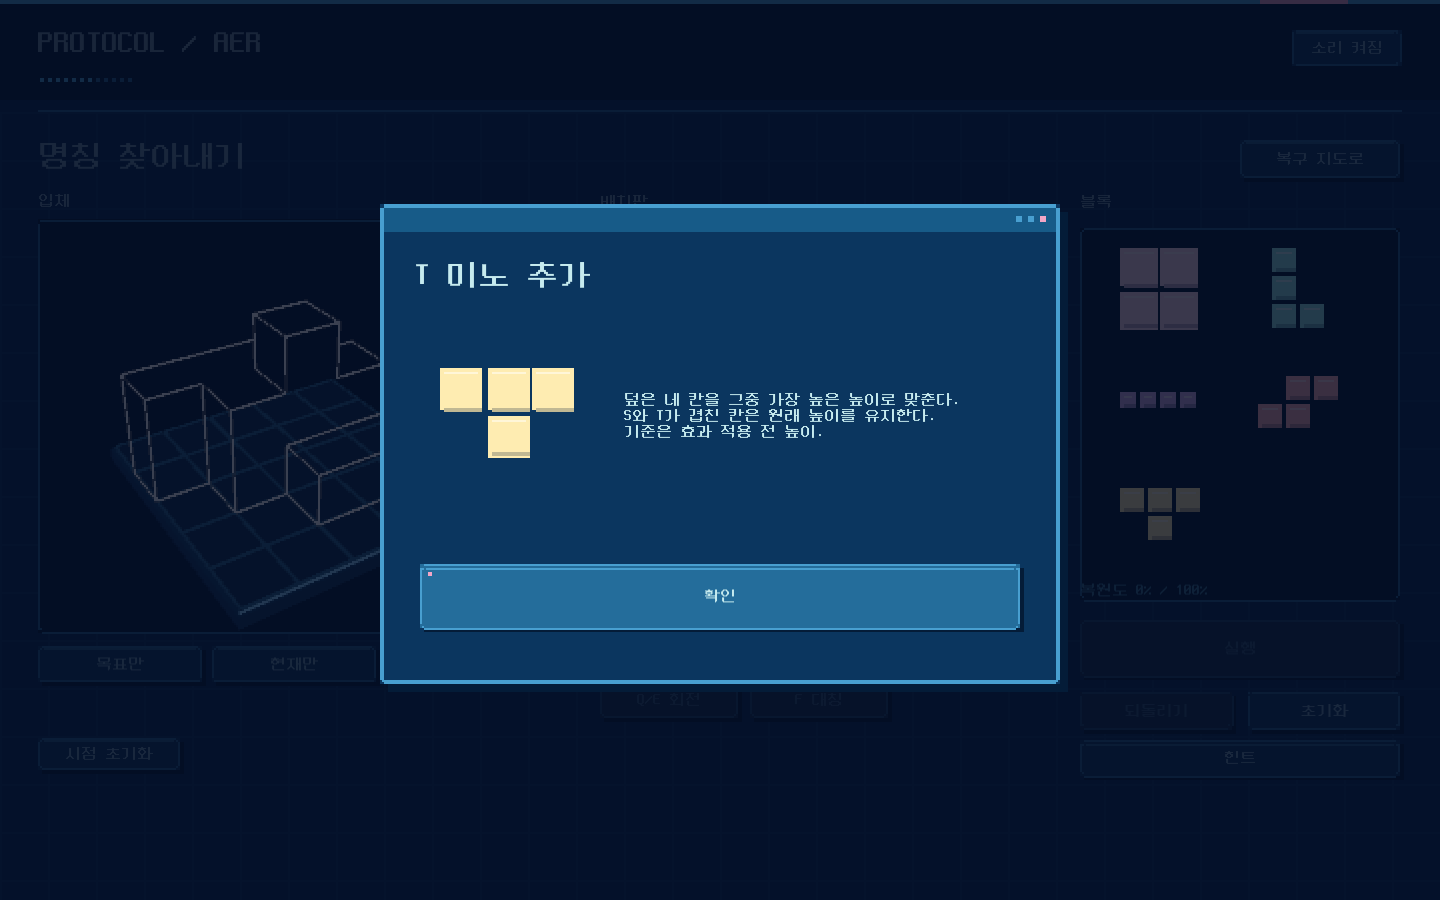
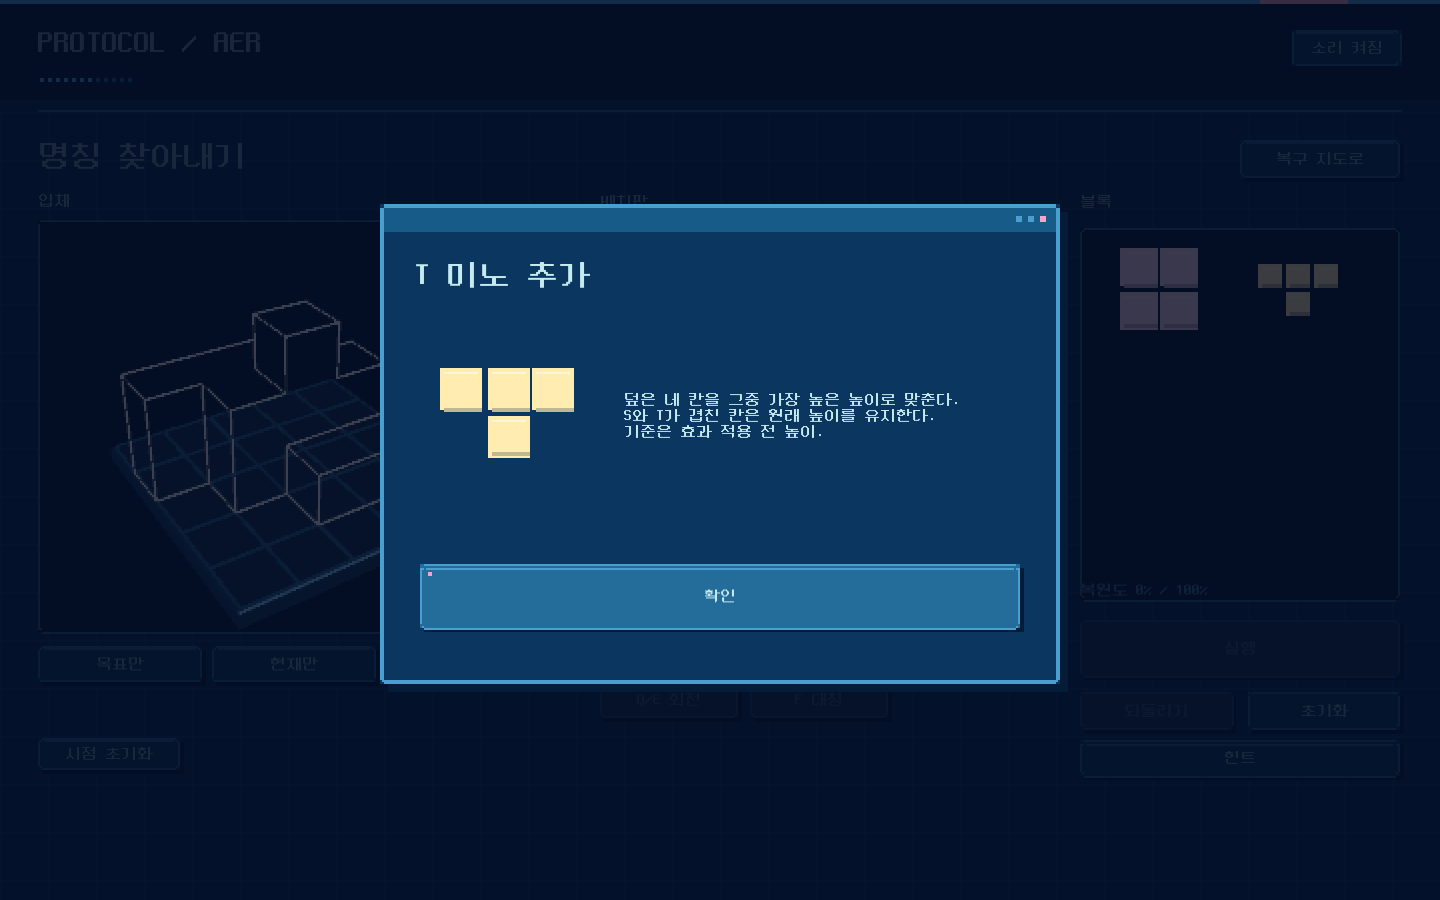
Focus S and T introduction stages on their teaching pieces

diff --git a/Assets/Editor/AerBuilder.cs b/Assets/Editor/AerBuilder.cs
@@ -52,7 +52,7 @@ public static class AerBuilder
         foreach(var stage in AerStages.All)
         {
             var board=new EveningBoard();foreach(var step in stage.Solution)
-            {if(!board.TryPlace(step.Action,step.Cells(),out _))throw new Exception("Invalid solution: "+stage.Name);}
+            {if(!stage.Allows(step.Action)||!board.TryPlace(step.Action,step.Cells(),out _))throw new Exception("Invalid or unavailable solution: "+stage.Name);}
             if(!stage.Complete(board)||stage.Similarity(board)!=100)throw new Exception("Solution evaluation");
             board.Undo();if(stage.Similarity(board)>=100||!stage.Weather&&stage.Complete(board))throw new Exception("Incomplete exact board accepted");
         }
@@ -85,8 +85,19 @@ public static class AerBuilder
         foreach(int action in new[]{0,1,2,3,4})
         {
             int unlock=action==0?11:action==1?10:action==2?8:action==3?5:0;
-            for(int i=0;i<AerStages.All.Length;i++)if(AerStages.All[i].Allows(action)!=(i>=unlock))throw new Exception("Unlock timing changed");
+            for(int i=0;i<AerStages.All.Length;i++)
+            {
+                bool expected=i==10?(action==4||action==3||action==1):i==11?(action==4||action==0):i>=unlock;
+                if(AerStages.All[i].Allows(action)!=expected)throw new Exception("Stage teaching set/unlock timing changed");
+            }
         }
+        var windProof=new EveningBoard();
+        foreach(var step in AerStages.All[10].Solution)
+        {
+            if(step.Action==2)throw new Exception("Windway teaching solution must not use I");
+            windProof.TryPlace(step.Action,step.Cells(),out _);
+        }
+        if(AerStages.All[10].Similarity(windProof)!=100||!AerStages.All[10].Complete(windProof))throw new Exception("Windway must remain solvable at 100% without I");
         var unlimited=new EveningBoard();for(int i=0;i<100;i++)if(!unlimited.TryPlace(4,(Vector2Int[])EveningBoard.Shapes[4].Clone(),out _))throw new Exception("Unexpected piece cap");
         if(unlimited.MaxHeight!=100)throw new Exception("Unlimited overlap failed");
         var empty=new EveningBoard();Add(empty,0,0,0);Add(empty,1,0,0);

diff --git a/Assets/Scripts/ProtocolAer.cs b/Assets/Scripts/ProtocolAer.cs
@@ -565,7 +565,7 @@ public sealed class ProtocolAer:MonoBehaviour
     {
         int a=newMino;Modal(new Rect(380,205,680,480),"",EveningBoard.Names[a]+" 미노 추가");
         DrawMino(new Rect(440,345,140,140),a);
-        string effect=a==1?"덮은 네 칸을 그중 가장 낮은 높이로 맞춘다.\nS와 T가 겹친 칸은 원래 높이를 유지한다.\n기준은 효과 적용 전 높이.":a==0?"덮은 네 칸을 그중 가장 높은 높이로 맞춘다.\nS와 T가 겹친 칸은 원래 높이를 유지한다.\n기준은 효과 적용 전 높이.":"덮는 칸마다 높이 +1";
+        string effect=a==1?"덮은 네 칸을 그중 가장 낮은 높이로 맞춘다.\n기준은 효과 적용 전 높이.":a==0?"덮은 네 칸을 그중 가장 높은 높이로 맞춘다.\nS와 T가 겹친 칸은 원래 높이를 유지한다.\n기준은 효과 적용 전 높이.":"덮는 칸마다 높이 +1";
         Text(new Rect(625,335,390,160),effect,20,Ink,true);
         if(Button(new Rect(420,565,600,65),"확인",true,true)){knownMinos.Add(a);newMino=-1;}
     }

diff --git a/Assets/Scripts/AerStages.cs b/Assets/Scripts/AerStages.cs
@@ -37,6 +37,9 @@ public sealed class AerStage
     public int RequiredAction=>Code=="NAME-03"?3:Code=="NAME-05"?2:Code=="NAME-07"?1:Code=="NAME-08"?0:-1;
     public bool Allows(int action)
     {
+        // Operator introductions deliberately offer only their teaching set.
+        if(Code=="NAME-07")return action==4||action==3||action==1;
+        if(Code=="NAME-08")return action==4||action==0;
         int index=Array.IndexOf(AerStages.All,this);
         return action==4||action==3&&index>=5||action==2&&index>=8||action==1&&index>=10||action==0&&index>=11;
     }

diff --git a/docs/Development.md b/docs/Development.md
@@ -10,7 +10,7 @@ Targets are generated from example solutions. Names require exact height matches
 
 Unlocks are O initially, L in name 3, I in name 5, S in name 7 and T in name 8. Supply is unlimited; no save state exists. Names 1–5, tutorials and the first weather are unchanged. Waterworks now uses three O, one L and one vertical I: one more ordinary piece than the archive, preserving an I rotation while simplifying the old multiple L/I orientation combinations. Difficulty comparisons are design targets, not a substitute for playtesting.
 
-Windway and control room each use three ordinary pieces and one operator. The final rainfall uses four ordinary pieces and S/T, all in default orientation. Both effects matter in its reference solution. Two common cells preserve original heights while exclusive S cells lower and exclusive T cells raise. The old whole-mino inversion, doubling and -2 rules have been removed.
+Windway and control room each use three ordinary pieces and one operator. Windway provides only O/L/S: its exact O/O/L/S solution needs no I. Control room provides only O/T. These stage-specific teaching sets do not change later unlocks; the finale restores all five types. S introduction omits T; mixed intersections are introduced with T. The final rainfall uses four ordinary pieces and S/T, all in default orientation. Both effects matter in its reference solution. Two common cells preserve original heights while exclusive S cells lower and exclusive T cells raise. The old whole-mino inversion, doubling and -2 rules have been removed.
 ## Controls
 
 - Any key/click on title: connect.
